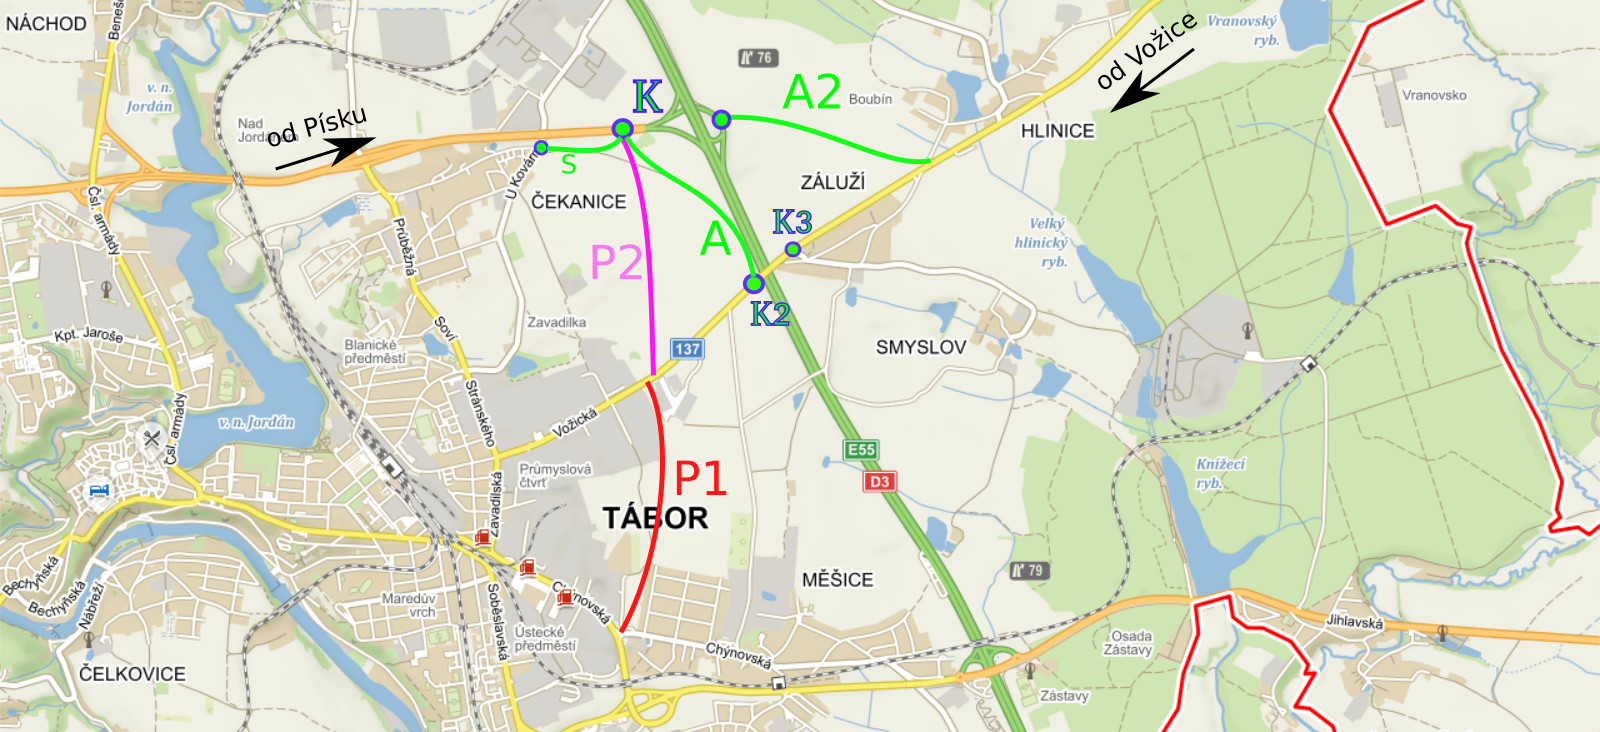
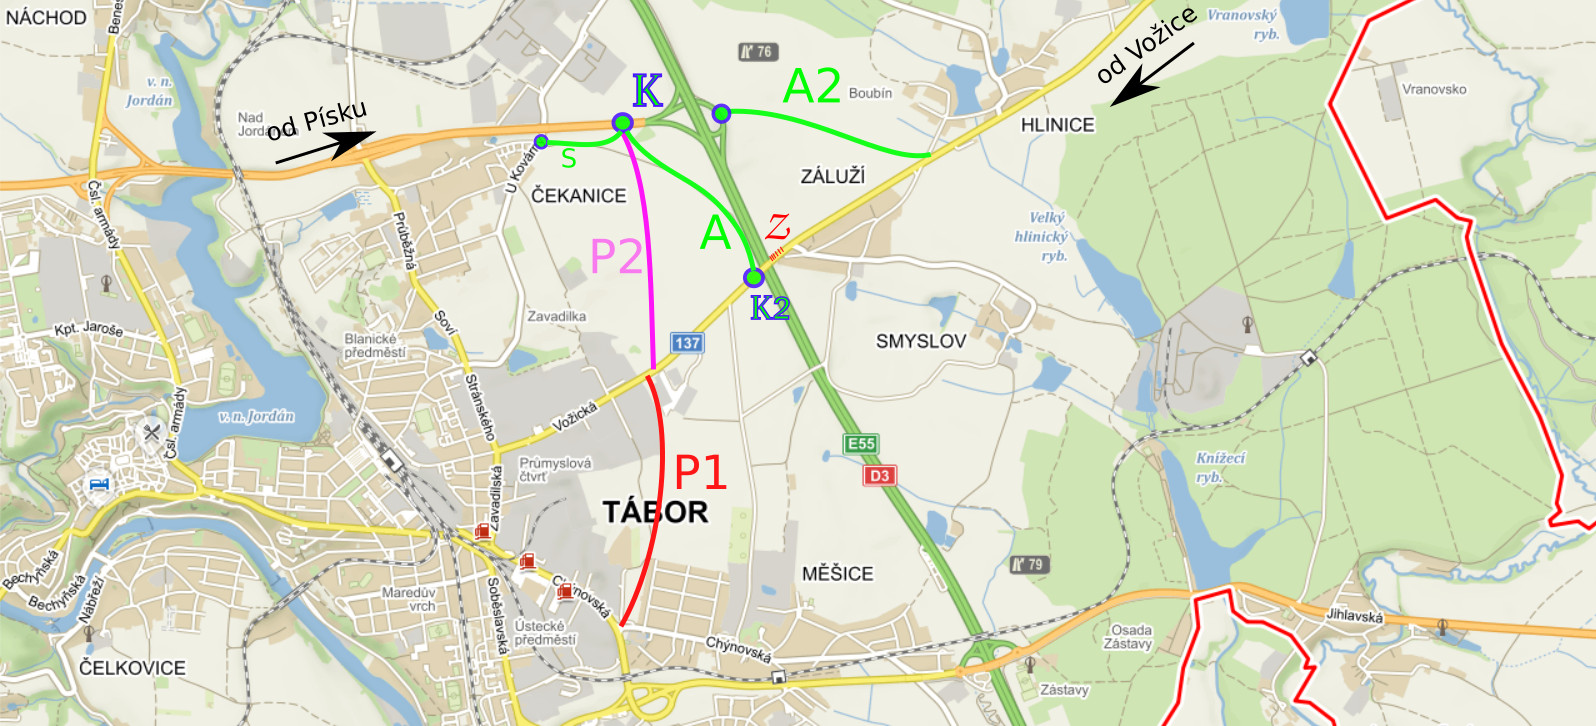
pasy

diff --git a/_posts/2018-04-23-alternativy-prelozka-chynovska-vozicka.md b/_posts/2018-04-23-alternativy-prelozka-chynovska-vozicka.md
@@ -59,7 +59,7 @@ Ten by umožnil plynule pokračovat po sjezdu z D3.
 Na Vožickou silnici úsek ústí hned za mostem přes D3.
 Ze směru z Tábora je toto místo viditelné již z dálky.
 Z opačného směru však je za horizontem a je tak potencionálně nebezpečné.
-Proto je v návrhu "zpomalovací" kruhový objezd K3, který je naopak dobře vidět z druhé strany.
+Proto jsou v návrhu "zpomalovací" pásy (Z) které dojez na horizont zpomalí.
 
 <img src="/static/media/uzemni_plan_cekanice_2018.jpg"
   alt="Dopravní toky po realizaci správného napojení průmyslové zóny"
